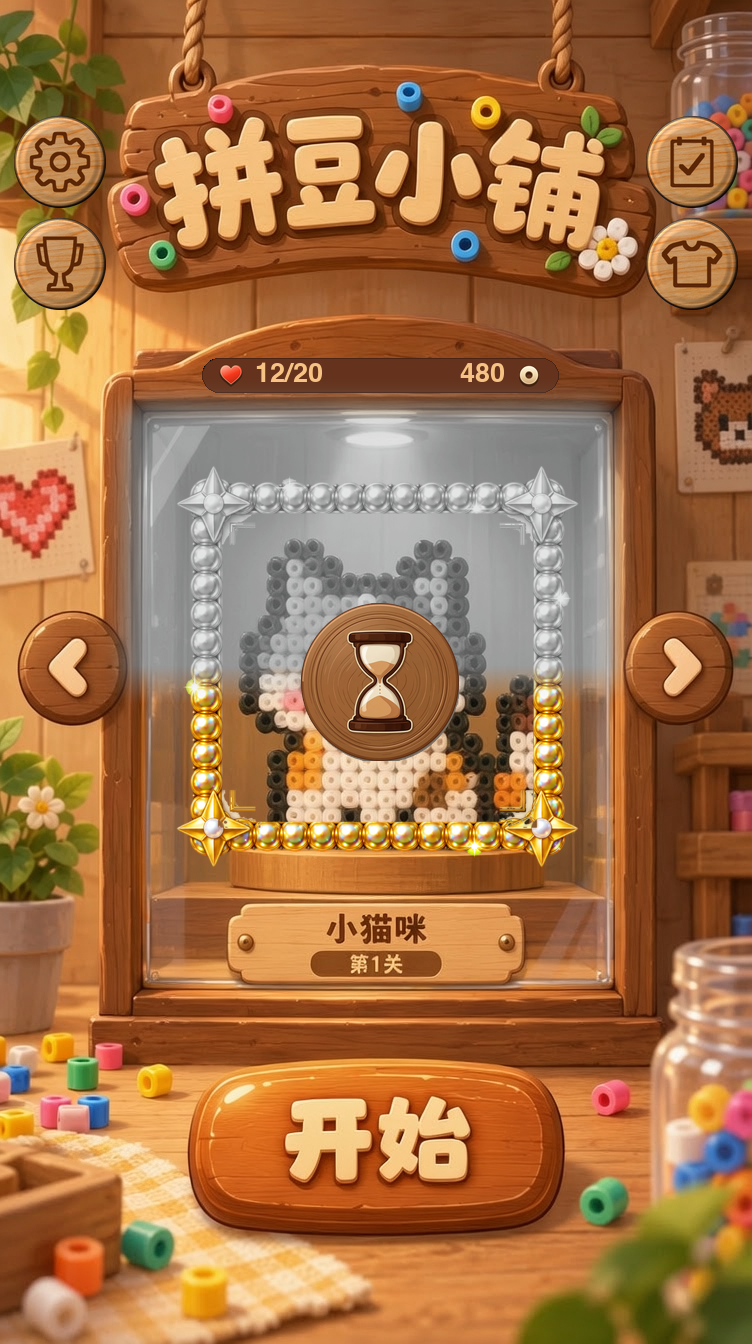
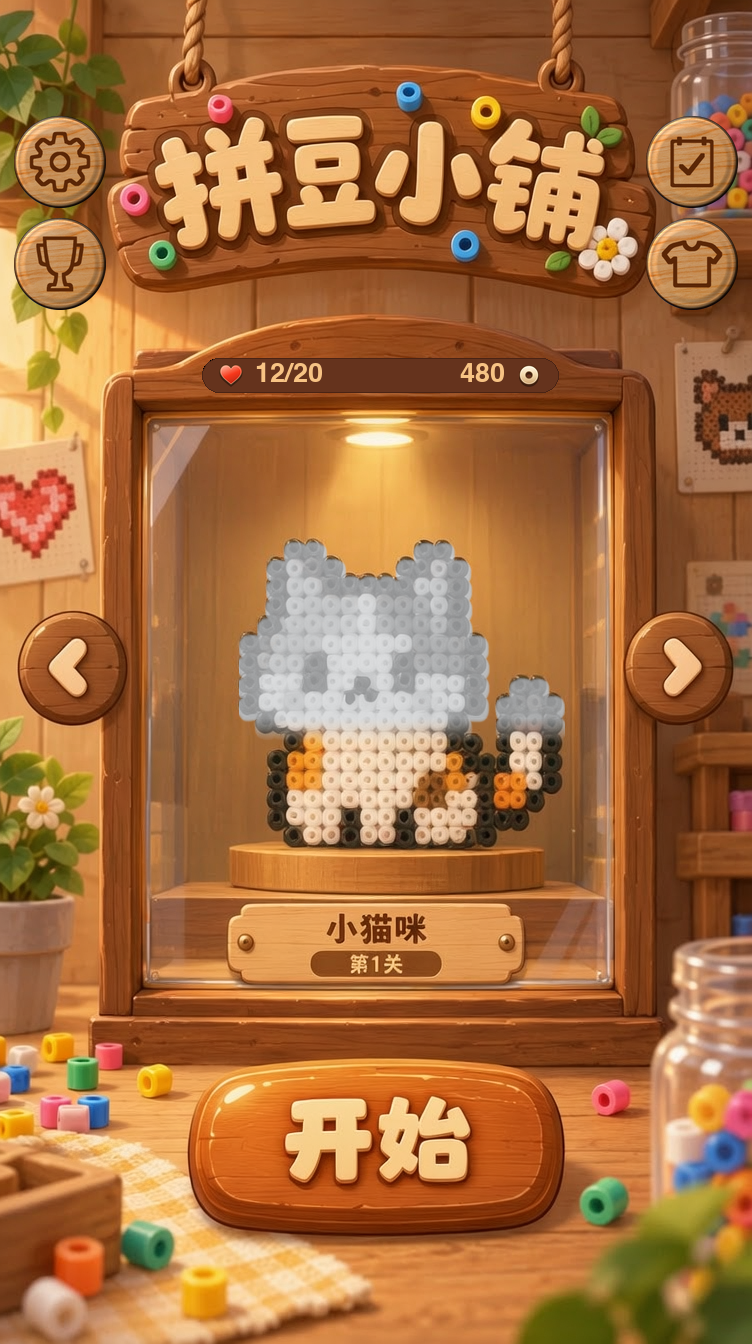
fix(art): pushing 去框去沙漏、只灰小猫上半（WXG-T-574）
- art_mask 抽共用 + gray_art_top 竖向 ramp，删除框/沙漏链

- 局部饱和度 基准 95.8/75.8 → pushing 46.2/64.4

- 五次贴回区外 maxdiff=0；其余三态逐字节未变

Changed region(s): [[0.1529, 0.2812, 0.8564, 0.6562]]

diff --git a/games/beads/design/ai-workflows/proto-from-figma.py b/games/beads/design/ai-workflows/proto-from-figma.py
@@ -5,7 +5,7 @@
 
 四态口径（2026-11-04 用户令）：
   locked   = ⛔ 无蒙版、无框；只按 44:64 真 alpha 把小猫置灰；锁贴豆画 bbox 正中
-  pushing  = 竖向揭彩（灰自上而下、彩自下而上）+ 木刻沙漏，珠圈框按 Figma 原位
+  pushing  = ⛔ 无框、无沙漏、无蒙版；只把小猫上半置灰（竖向揭彩，彩高度 = PROGRESS）
   cleared  = 全彩；通关圆章贴豆画 bbox 右上内缩 8px（内容层，随走马灯左右滚动）
   fullstar = 珠圈框放大到中空区恰好容纳豆画并居中于 bbox；⛔ 无底座三颗星
 
@@ -32,7 +32,6 @@ OUT = ART / "final/prototypes"
 # Figma 画布 750×1334 → 基准底图 752×1344
 SX, SY = 752 / 750, 1344 / 1334
 
-FRAME_BOX = (164, 450, 426, 426)       # 46:21 原框位（仅 pushing 用）
 ART_BOX_FIGMA = (212, 530, 325, 314)   # 44:64 关卡图案（猫咪拼豆）
 # 模板匹配实测：基准图里的豆画相对 Figma 节点右移 26 / 下移 7（scale 1.0，MAE 5.38）
 # ⇒ 一切以「图案」为准的落点（置灰 mask / 框中心 / 通关章 / 锁）都要加此位移
@@ -107,8 +106,8 @@ def local_composite(base, layer, mask):
     return Image.fromarray(o.astype(np.uint8)), maxdiff
 
 
-def gray_art(base):
-    """只置灰小猫：44:64 真 alpha 当 mask，纯去饱和（blur=0），⛔ 无蒙版、无框。"""
+def art_mask():
+    """豆画真 alpha mask（局部 L，按 ART_SHIFT 对齐 + 外扩 2px + 向内羽化）。"""
     with Image.open(ELEM / "ui_menu_art_cat.png") as im:
         m = im.convert("RGBA").getchannel("A")
     ax, ay, aw, ah = ART_BOX_FIGMA
@@ -119,9 +118,37 @@ def gray_art(base):
     # 对齐后仍外扩 2px 盖住豆画外缘描边珠子
     m = m.filter(ImageFilter.MaxFilter(5))
     m = ImageChops.multiply(m.filter(ImageFilter.GaussianBlur(1.2)), m)
+    return m, (X, Y, W, H)
+
+
+def gray_art(base):
+    """只置灰小猫：纯去饱和（blur=0），⛔ 无蒙版、无框。"""
+    m, (X, Y, _, _) = art_mask()
     full = Image.new("L", base.size, 0)
     full.paste(m, (X, Y))
     return local_composite(base, pb.gray_layer(base), full)
+
+
+def gray_art_top(base, progress):
+    """只把小猫上半置灰：alpha mask × 竖向揭彩 ramp；⛔ 无框、无蒙版、无沙漏。"""
+    m, (X, Y, W, H) = art_mask()
+    x0, y0, x1, y1 = art_bbox()
+    boundary = (y0 + (y1 - y0) * (1.0 - progress)) * SY
+    band = max(1.0, pb.WIPE_SOFT * (y1 - y0) * SY)
+    ys = np.arange(H, dtype=np.float32) + Y
+    ramp = np.clip((boundary - ys) / band + 0.5, 0.0, 1.0)[:, None]  # 1=灰（上）·0=彩（下）
+    a = np.asarray(m, dtype=np.float32) / 255.0
+    patch = Image.fromarray(np.rint(np.clip(a * ramp, 0.0, 1.0) * 255).astype(np.uint8))
+    full = Image.new("L", base.size, 0)
+    full.paste(patch, (X, Y))
+    return local_composite(base, pb.gray_layer(base), full)
+
+
+def sat_box(im, box):
+    """只量指定框内的平均色差（饱和度代理），避免整屏采样被背景稀释。"""
+    a = np.asarray(im.crop(tuple(map(round, box))), dtype=np.int16)
+    return round((np.abs(a[:, :, 0] - a[:, :, 1])
+                  + np.abs(a[:, :, 1] - a[:, :, 2])).mean(), 1)
 
 
 def main():
@@ -130,13 +157,6 @@ def main():
     print("base", size, "progress", pb.PROGRESS,
           "豆画 bbox", tuple(round(v, 1) for v in art_bbox()))
 
-    # 原位置珠圈框：仅 pushing 用（用户未点名此态）
-    with Image.open(ELEM / "ui_menu_frame_pearls.png") as el:
-        framed, d0 = feather_paste(base, el, FRAME_BOX)
-    print("pushing 框 贴回 区外 maxdiff", d0)
-
-    fade = pb.bottom_fade(size, pb.CASE[3] - pb.CASE_FADE, pb.CASE[3] + 10)
-
     # locked：只灰小猫 + 锁居中；⛔ 无磨砂蒙版、无框
     locked, d4 = gray_art(base)
     print("locked 小猫置灰 区外 maxdiff", d4)
@@ -144,13 +164,9 @@ def main():
         locked, d1 = feather_paste(locked, el, centered_box(LOCK_WH))
     print("locked 锁 贴回 区外 maxdiff", d1)
 
-    # pushing：竖向揭彩（上灰下彩）+ 木刻沙漏（Figma 未给此章）
-    ramp = pb.wipe_ramp(size, pb.PROGRESS, pb.WIPE_SOFT) * fade
-    pushing = Image.composite(
-        pb.gray_layer(framed, blur=0, lift=64, scale=0.66, veil=0.10), framed,
-        pb.shape(pb.CASE, size, blur=10, ramp=ramp))
-    pb.stamp(pushing, "ui_menu_badge_progress.png",
-             pb.ART_C[0], pb.ART_C[1] + 4, pb.HOUR_D, pb.HOUR_D)
+    # pushing：只把小猫上半置灰（灰自上而下、彩自下而上）；⛔ 无框、无沙漏、无蒙版
+    pushing, d5 = gray_art_top(base, pb.PROGRESS)
+    print("pushing 小猫上半置灰 区外 maxdiff", d5)
 
     # cleared：全彩 + 通关章贴豆画 bbox 右上；⛔ 无框、无底座三颗星
     cleared = base.copy()
@@ -172,6 +188,12 @@ def main():
         cv.save(p)
         print("写出", p, cv.size)
     pb.selfcheck(base, states)
+    x0, y0, x1, y1 = art_bbox()
+    mid = (y0 + y1) / 2
+    up = (x0 * SX, y0 * SY, x1 * SX, mid * SY)
+    dn = (x0 * SX, mid * SY, x1 * SX, y1 * SY)
+    print("豆画饱和度 基准 上/下", sat_box(base, up), sat_box(base, dn),
+          "| pushing 上/下", sat_box(pushing, up), sat_box(pushing, dn))
 
 
 if __name__ == "__main__":

diff --git a/games/beads/design/art/final/README.md b/games/beads/design/art/final/README.md
@@ -16,7 +16,7 @@
 
 ### 1b. 2026-11-04 现行口径（WXG-T-574）
 
-用户令：**基准图不动**；从 Figma 下载新设计图；参考 v2 三态做新三态；坐标图落 `coordinates/`；**之前的三态去掉**。追加令：通关去框去星、另增满星态；再追加令（本批）：`fullstar` 框居中且正好框住图案、去三颗星；`cleared` 通关章移到图案矩形右上角（随内容左右滚动）；`locked` 去蒙版、只灰小猫、去框、锁居中。
+用户令：**基准图不动**；从 Figma 下载新设计图；参考 v2 三态做新三态；坐标图落 `coordinates/`；**之前的三态去掉**。追加令：通关去框去星、另增满星态；再追加令（本批）：`fullstar` 框居中且正好框住图案、去三颗星；`cleared` 通关章移到图案矩形右上角（随内容左右滚动）；`locked` 去蒙版、只灰小猫、去框、锁居中。第三次令：`pushing` 去框、去中间沙漏、小猫图案**本身上半置灰**。
 
 | 目录 | 现行件 | 来源 |
 |---|---|---|
@@ -25,13 +25,13 @@
 | `prototypes/` | `proto-menu-v3-{locked,pushing,cleared,fullstar}-752x1344.png` | 本批新四态（752×1344） |
 | `coordinates/` | `menu-master-coords-v2-20261104.png` | Figma `50:113` 坐标图（1300×1334，安全区 + 胶囊区 + 元素实测框） |
 
-**四态分工（现行）**：`locked` = **无蒙版、无框**，只按 `44:64` 真 alpha 把小猫置灰（`gray_layer` blur=0），拼豆锁贴豆画 bbox 正中 · `pushing` = 竖向揭彩 + 木刻沙漏 + 原 Figma 位珠圈框（用户未点名此态，未改）· `cleared` = 全彩**无框无星**，通关圆章贴豆画 bbox 右上内缩 8px（属走马灯内容层）· `fullstar` = 珠圈框放大到 **488×455**（中空区占框宽 0.695 / 高 0.717，恰好容纳豆画 323×310 并留 8px 边）、中心对齐豆画 bbox，**⛔ 无三颗星**。
+**四态分工（现行）**：`locked` = **无蒙版、无框**，只按 `44:64` 真 alpha 把小猫置灰（`gray_layer` blur=0），拼豆锁贴豆画 bbox 正中 · `pushing` = **⛔ 无框、无沙漏、无蒙版**，只把小猫**上半置灰**（`gray_art_top()` = 豆画 alpha mask × 竖向揭彩 ramp，灰自上而下、彩自下而上，彩高度 = `PROGRESS=0.40`，柔带 `WIPE_SOFT=0.08`，与运行时 `grayWipeFx` 同式同向）· `cleared` = 全彩**无框无星**，通关圆章贴豆画 bbox 右上内缩 8px（属走马灯内容层）· `fullstar` = 珠圈框放大到 **488×455**（中空区占框宽 0.695 / 高 0.717，恰好容纳豆画 323×310 并留 8px 边）、中心对齐豆画 bbox，**⛔ 无三颗星**。
 
 **关键实测**：模板匹配（numpy，零新依赖）显示基准图里的豆画相对 Figma `44:64` 节点 **右移 26 / 下移 7**（scale 1.0，MAE 5.38）⇒ 脚本 `ART_SHIFT=(26,7)`，一切以「图案」为准的落点（置灰 mask / 框中心 / 通关章 / 锁）均加此位移；否则 mask 偏左会留一圈未置灰的深色珠子。豆画真实 bbox = (239,539)-(562,849)。
 
 **生成史三要素**：① 生成方式 = Figma REST 下载 + 程序化像素变换（**零模型、零重绘**）；② 产出脚本 = `my-skills/wxgame-figma/scripts/figma.mjs`（下载）、`../../ai-workflows/proto-from-figma.py`（四态；复用 `proto-from-baseline.py` 的去饱和 / 竖向揭彩函数）；③ 原图 = Figma 文件 `PBIK3RbfGlfzFsAnd97ZsP` 节点 `2:81` / `50:113` / `46:21` / `47:19` / `47:20` / `44:64`，**四件**透明切图存 `proposals/menu-3d-style-20261030/figma-elements-20261104/`（真 alpha；`ui_menu_art_cat.png` 供 bbox / 置灰 mask / 模板匹配）。
 
-**贴回判据**：α = blur(M)×M 向内羽化 → 合成 → 区外硬拷回；五次贴回/合成实测 **区外 maxdiff = 0**（脚本 assert 硬失败）。`locked` 改动仅 7.7%（包围盒 239,541–564,856 = 豆画区），柜内饱和度 68.0（背景/木牌/资源条全彩未动）；`cleared` 96.2（全彩）；`pushing` 灰 5.3·彩 94.0，与运行时 `grayWipeFx` 同式同向。
+**贴回判据**：α = blur(M)×M 向内羽化 → 合成 → 区外硬拷回；五次贴回/合成实测 **区外 maxdiff = 0**（脚本 assert 硬失败）。`locked` 改动仅 7.7%（包围盒 239,541–564,856 = 豆画区），柜内饱和度 68.0（背景/木牌/资源条全彩未动）；`cleared` 96.2（全彩）；`pushing` 改动 4.5%、包围盒 (239,541)-(564,742)（只到豆画中线之上）；豆画饱和度 **基准上/下 95.8 / 75.8 → pushing 上/下 46.2 / 64.4**（上半降 49.6 明显灰化，下半降 11.4 仅来自柔带跨中线，不是整块灰化）。原 `pb.selfcheck` 固定采样框含大量背景，⛔ 不用于本判据。
 
 ⚠ **接线现状（未改代码）**：`src/view/meta-menu.ts:364-365` 记载 WXG-T-566 已把三态标记（通关飘带 / 锁 / 沙漏）**全部退场**，运行时只靠「作品灰度 + 柜灯」表达三态。本批原型上的通关章 / 锁属设计示意；若日后接线，通关章须挂在**走马灯内容层**随小猫图案一起左右滚动，⛔ 不得钉在玻璃框上 —— 另立任务。
 

diff --git a/production/TASKS.md b/production/TASKS.md
@@ -8,7 +8,7 @@
 
 | Task ID | 名称 | 负责 | 状态 | 产出 |
 |---|---|---|---|---|
-| WXG-T-574 | 美术·Figma v2 设计图/坐标图落库 + v3 三态原型 | 主理人(CodeBuddy)·美术轨 | ✅ **完成（2026-11-04）**（用户令「基准不动、下载新设计图、参考旧三态做新三态、坐标图落 coordinates、去掉之前的」⇒ 方法选「分层切图贴回」：`2:81` 新设计图 + `50:113` 坐标图经 PAT+REST 下载落库；`46:21`/`47:19`/`47:20` 三件真 alpha 切图 + `proto-from-figma.py` 出 v3 三态，三次贴回区外 maxdiff=0；v2 三态移除；追加令：`cleared` 去框去星 + 新增 `fullstar`；二次追加令：框放大居中/去星、通关章入内容层、`locked` 只灰小猫且去蒙版去框；模板匹配得图案位移 (+26,+7)；README §1b / asset-provenance §5 登记） | 见详情 |
+| WXG-T-574 | 美术·Figma v2 设计图/坐标图落库 + v3 三态原型 | 主理人(CodeBuddy)·美术轨 | ✅ **完成（2026-11-04）**（用户令「基准不动、下载新设计图、参考旧三态做新三态、坐标图落 coordinates、去掉之前的」⇒ 方法选「分层切图贴回」：`2:81` 新设计图 + `50:113` 坐标图经 PAT+REST 下载落库；`46:21`/`47:19`/`47:20` 三件真 alpha 切图 + `proto-from-figma.py` 出 v3 三态，三次贴回区外 maxdiff=0；v2 三态移除；追加令：`cleared` 去框去星 + 新增 `fullstar`；二次追加令：框放大居中/去星、通关章入内容层、`locked` 只灰小猫且去蒙版去框；模板匹配得图案位移 (+26,+7)；三次追加令：`pushing` 去框去沙漏、只灰小猫上半；README §1b / asset-provenance §5 登记） | 见详情 |
 | WXG-T-573 | 美术·删除菜单翻页钮 ui_btn_arrow_left/right | 主理人(Cursor)·美术轨 | ✅ **完成（2026-11-03）**（用户令「这两个不要了」⇒ 经两次确认选「删除 + 回退旧圆底」：删现役 `final/assets/menu/` 2 件与 Cocos 投放 2 件（png + meta）；清 `tuning/menu.ts` 两个纹理键、`beads-blit-carrier.ts` 与 `dev/harness/main.ts` 映射；`meta-menu.ts` 去掉整枚腿分支，橱窗 ◀▶ 回退 `ui_btn_arrow_bg_*` + `ui_icon_arrow_*`；`showcase-single.test.ts` 改断言为回退路径。beads 全量 vitest 121 文件 / 1430 用例全绿。详见 TASKS-DETAIL） | 见详情 |
 | WXG-T-572 | 美术·菜单基准图落 prototypes + Figma 写入权限验证 | 主理人(Cursor)·美术轨 | ✅ **完成（2026-11-03）**（基准图已落 `final/prototypes/`；新建 / 上传 / 读回 / `use_figma` 写入均已通过） | 见详情 |
 | WXG-T-571 | 工具链·Figma MCP 改接本地桌面版 | 主理人(Cursor·CodeBuddy)·工具链轨 | ✅ **完成（2026-11-03·方案改判）**（MCP 两路均判负：远程 OAuth 动态注册 403 白名单、本地 `3845` 需 Dev/Full 座位且恒不监听 ⇒ 用户令「用 `FIGMA_API_KEY` 走统一 skill」；已落地 `my-skills/wxgame-figma`（PAT+REST，`me`/`tree`/`node`/`img`+selftest，零依赖）+ 五 IDE 符号链接，`check:links` skills=51 OK） | 见详情 |

diff --git a/production/TASKS-DETAIL.md b/production/TASKS-DETAIL.md
@@ -7721,3 +7721,13 @@ Figma 官方文档（remote-server-installation）：远程端点 `https://mcp.f
 **接线现状**：`src/view/meta-menu.ts:364-365` 记载 WXG-T-566 已把通关飘带 / 锁 / 沙漏**全部退场**，运行时只靠「作品灰度 + 柜灯」表达三态。本批原型上的章/锁属设计示意；若日后接线，通关章须挂走马灯内容层随图案左右滚动，⛔ 不得钉玻璃框 —— 另立任务，**本批未改代码**。
 
 判据：五次贴回/合成区外 **maxdiff = 0**（脚本 assert）；三张点名图逐张目视通过。README §1b、asset-provenance §5 同步回写；仍署 WXG-T-574。
+
+### 8. 三次追加令（2026-11-04）：pushing 去框去沙漏、只灰小猫上半
+
+用户令：「清除框去掉中间沙漏图标，小猫图案本身上半置灰」。方法（开工前提示）= 程序化局部置灰，零模型、零重绘，不抠图不擦除；灰/彩分界沿用既有 `PROGRESS=0.40`（与运行时 `grayWipeFx` 同式同向），若要精确 1:1 只改一个常量。
+
+- `art_mask()` 从 `gray_art()` 抽出共用（真 alpha + `ART_SHIFT` + MaxFilter 5 + 向内羽化）；新增 `gray_art_top(base, progress)`：mask × 竖向 ramp（灰自上而下、彩自下而上，柔带 `WIPE_SOFT=0.08`），再走 `local_composite()` 区外硬拷回。
+- **删除**：`FRAME_BOX` 常量、原框位 `framed` 贴回、`fade` / `pb.wipe_ramp` / `pb.shape(CASE)` 磨砂链、`pb.stamp` 木刻沙漏分支。四态至此**只有 `fullstar` 有框**，只有 `locked`/`cleared` 有章/锁。
+- 新增 `sat_box()` 局部饱和度判据：原 `pb.selfcheck` 固定采样框含大量背景（读数 `灰 92.7 / 彩 76.2` 具误导性），改只量豆画 bbox 上/下半 ⇒ **基准 95.8 / 75.8 → pushing 46.2 / 64.4**（上半降 49.6 真灰化，下半降 11.4 仅柔带跨中线）。
+- 目视：框与沙漏消失，猫上半灰下半彩，柜内背景 / 木牌 / 资源条全彩未动，柔带过渡自然。
+- 五次贴回/合成区外 maxdiff = 0；`pushing` 改动 4.5%、包围盒 (239,541)-(564,742) 止于豆画中线之上。README §1b、asset-provenance §5 同步回写；仍署 WXG-T-574，未改运行时代码。

diff --git a/ctx/hot-files.md b/ctx/hot-files.md
@@ -25,7 +25,7 @@
 
 §wechatgame 项目长期笔记=1+81 · §日志蒸馏规程（R2 · WXG-T-0…=7+6 · §项目约定=13+22 · §常用脚本=35+11 · §SubAgent=46+4 · §Rules=50+3 · §Hooks=53+7 · §Headless / CI=60+8 · §已知限制=68+14
 
-## `production/TASKS.md` — 181 行 / 41784 tok / 实测读 4 次
+## `production/TASKS.md` — 181 行 / 41805 tok / 实测读 4 次
 
 §WXG 任务台账（SSOT）=1+182 · §待排（backlog，无号，立项时领取…=154+29
 
@@ -103,10 +103,10 @@
 §knowledge/ — 工作室知识库…=1+323 · §1 读取协议（开发前期）=7+10 · §2 写入协议（任务收尾）=17+28 · §3 文件分工=45+10 · §4 维护=55+12 · §5 生命周期（访问记账 → 归档 → …=67+41 · §6 活跃条目（自动生成）=108+216
 > 本表只列 7 / 11 节：其余 4 节 → ctx/index.json（按 path 取 `sections[].anchor` / `startLine`，勿整读）。
 
-## `production/TASKS-DETAIL.md` — 7723 行 / 214683 tok
+## `production/TASKS-DETAIL.md` — 7733 行 / 215153 tok
 
-§WXG 任务台账 · 详情（标题制正文…=1+7724 · §WXG-T-563=7205+30 · §WXG-T-566=7235+61 · §WXG-T-567=7296+25 · §WXG-T-565=7321+32 · §WXG-T-564=7353+34 · §WXG-T-569=7387+41 · §WXG-T-568=7428+60 · §WXG-T-570=7488+71 · §WXG-T-571=7559+38 · §WXG-T-572=7597+33 · §WXG-T-573=7630+36 · §WXG-T-574=7666+59
-> 本表只列 13 / 846 节：其余 833 节 → ctx/index.json（按 path 取 `sections[].anchor` / `startLine`，勿整读）。
+§WXG 任务台账 · 详情（标题制正文…=1+7734 · §WXG-T-563=7205+30 · §WXG-T-566=7235+61 · §WXG-T-567=7296+25 · §WXG-T-565=7321+32 · §WXG-T-564=7353+34 · §WXG-T-569=7387+41 · §WXG-T-568=7428+60 · §WXG-T-570=7488+71 · §WXG-T-571=7559+38 · §WXG-T-572=7597+33 · §WXG-T-573=7630+36 · §WXG-T-574=7666+69
+> 本表只列 13 / 847 节：其余 834 节 → ctx/index.json（按 path 取 `sections[].anchor` / `startLine`，勿整读）。
 
 ## `games/breakout/design/concept.md` — 143 行 / 3113 tok / 实测读 217 次
 

diff --git a/ctx/BUDGET.md b/ctx/BUDGET.md
@@ -22,7 +22,7 @@
 
 | # | 文件 | tokens | 行数 | tier |
 |---:|---|---:|---:|:--:|
-| 1 | `production/TASKS-DETAIL.md` | 214683 | 7723 | normal |
+| 1 | `production/TASKS-DETAIL.md` | 215153 | 7733 | normal |
 | 2 | `games/beads/design/gdd/powerups-v2.md` | 154580 | 2352 | normal |
 | 3 | `games/beads/design/art/specs/assets-spec.md` | 121738 | 2109 | normal |
 | 4 | `production/qa/beads/g4-regression-report.md` | 86807 | 2201 | normal |
@@ -31,7 +31,7 @@
 | 7 | `docs/architecture/adr/ADR-0030-beads-cocos-production-blit-carrier.md` | 45150 | 1307 | normal |
 | 8 | `games/beads/design/proposals/bead-visual-style-spec.md` | 43650 | 1206 | normal |
 | 9 | `games/beads/design/gdd/systems-index.md` | 42379 | 323 | hot |
-| 10 | `production/TASKS.md` | 41784 | 181 | hot |
+| 10 | `production/TASKS.md` | 41805 | 181 | hot |
 | 11 | `docs/architecture/adr/ADR-0034-beads-save-uid-index-flatten.md` | 41181 | 502 | normal |
 | 12 | `games/beads/design/levels/levels-spec.md` | 39938 | 914 | normal |
 | 13 | `games/beads/design/art/specs/art-bible.md` | 38368 | 530 | normal |
@@ -49,7 +49,7 @@
 
 | 文件 | tokens | 类别 · 上限 | 处置 |
 |---|---:|---:|:--:|
-| `production/TASKS-DETAIL.md` | 214683 | tasksDetail · 205000 | 见 `ctx/budget-exempt.json`（无豁免则 ❌ 需报告主理人） |
+| `production/TASKS-DETAIL.md` | 215153 | tasksDetail · 205000 | 见 `ctx/budget-exempt.json`（无豁免则 ❌ 需报告主理人） |
 | `games/beads/design/gdd/powerups-v2.md` | 154580 | spec · 8000 | 见 `ctx/budget-exempt.json`（无豁免则 ❌ 需报告主理人） |
 | `games/beads/design/art/specs/assets-spec.md` | 121738 | spec · 8000 | 见 `ctx/budget-exempt.json`（无豁免则 ❌ 需报告主理人） |
 | `production/qa/beads/g4-regression-report.md` | 86807 | ledger · 16000 | 见 `ctx/budget-exempt.json`（无豁免则 ❌ 需报告主理人） |

diff --git a/production/qa/asset-provenance.md b/production/qa/asset-provenance.md
@@ -94,3 +94,5 @@
 ⚠ **上段口径已被第二次追加令覆盖**：`fullstar` 框改为放大到 488×455 并居中于豆画 **bbox**（不再用 alpha 重心）、三颗星退场；`cleared` 通关章移到豆画 bbox 右上内缩 8px；`locked` 去蒙版去框、只灰小猫、锁贴 bbox 正中。方法仍在「放大框·bbox 居中 / 保持 426² / 缩到同尺寸」与「bbox 右上 / 裁切区右上 / 外挂」中由用户选了两项推荐。
 
 **模板匹配实测（本批关键）**：`44:64` 切图与基准图豆画 RGB 逐点匹配 ⇒ 位移 **(+26,+7)**、scale 1.0、MAE 5.38；脚本以 `ART_SHIFT` 常量固定，置灰 mask / 框 / 章 / 锁全部按真实图案位置落位。零新依赖（numpy）。五次贴回与合成区外 maxdiff = 0。运行时接线差异见 `final/README.md §1b`（WXG-T-566 三态标记已退场，本批原型属设计示意，未改代码）。
+
+**第三次追加令（同日）**：`pushing` 去框、去中间沙漏、小猫图案本身上半置灰。方法 = 程序化局部置灰（零模型）：`art_mask()` 真 alpha 抽为共用函数，`gray_art_top()` 给 mask 乘竖向揭彩 ramp（灰自上而下 / 彩自下而上，彩高度 `PROGRESS=0.40`，柔带 `WIPE_SOFT=0.08`）；`FRAME_BOX` 常量与整个 `framed` / `fade` / `pb.stamp` 沙漏分支**删除**。判据：区外 maxdiff=0，改动 4.5% 且包围盒止于 y=742（豆画中线之上）；豆画饱和度基准上/下 95.8/75.8 → 46.2/64.4。灰/彩分界沿用既有 0.40 推关口径（未改成精确 1:1）。
